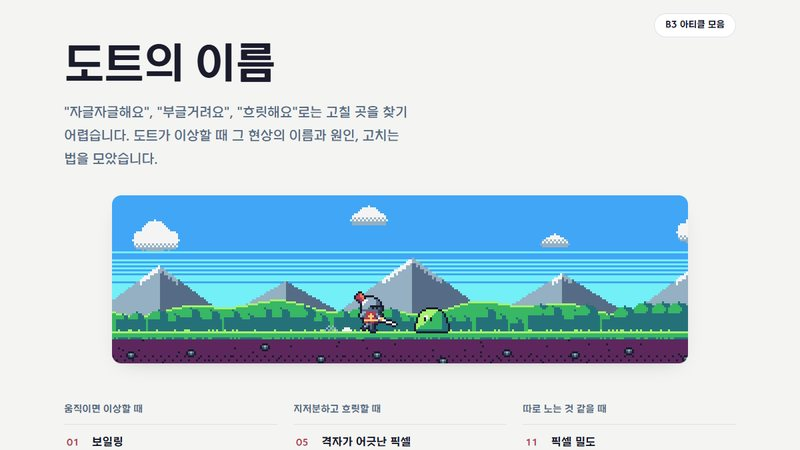
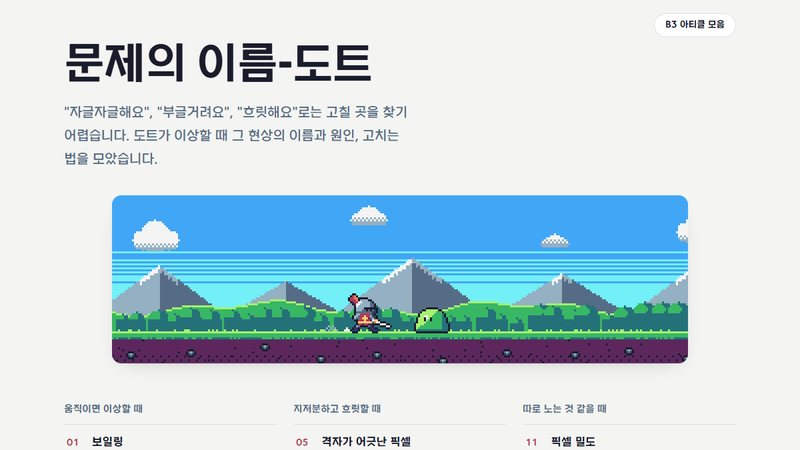
도트 칼럼 제목을 문제의 이름-도트로

Changed region(s): [[0.0625, 0.0933, 0.3438, 0.1867], [0.3438, 0.0933, 0.4688, 0.1867], [0.4375, 0.6533, 0.5, 0.7467]]

diff --git a/dot/index.html b/dot/index.html
@@ -1,6 +1,6 @@
 <!doctype html>
 <html lang="ko"><head><meta charset="utf-8"><meta name="viewport" content="width=device-width,initial-scale=1">
-<title>도트의 이름</title>
+<title>문제의 이름-도트</title>
 <meta name="description" content="자글자글, 부글부글, 흐릿함. 도트가 이상할 때 그 현상의 이름과 원인, 고치는 법을 같은 기사와 슬라임으로 비교합니다.">
 <link rel="preload" href="../fonts/HSHyosung-Bold.woff2" as="font" type="font/woff2" crossorigin>
 <link rel="preload" href="../fonts/HSHyosung-Medium.woff2" as="font" type="font/woff2" crossorigin>
@@ -131,7 +131,7 @@ footer p{margin:0}
 <a class="hub-link" href="../">B3 아티클 모음</a>
 
 <header class="top">
- <h1>도트의 이름</h1>
+ <h1>문제의 이름-도트</h1>
  <p class="lede">"자글자글해요", "부글거려요", "흐릿해요"로는 고칠 곳을 찾기 어렵습니다. 도트가 이상할 때 그 현상의 이름과 원인, 고치는 법을 모았습니다.</p>
  <div class="frame hero-frame"><canvas class="hero-cv" data-demo="hero" role="img" aria-label="기사가 달려와 슬라임을 베고 지나가는 장면"></canvas></div>
 </header>

diff --git a/index.html b/index.html
@@ -53,8 +53,8 @@ footer p{margin:0}
 </header>
 <ol class="shelf">
  <li class="card">
-  <img src="img/dot.jpg" alt="도트의 이름 첫 화면" width="800" height="450">
-  <div class="body"><span class="no">04</span><h2><a class="main" href="dot/">도트의 이름</a></h2>
+  <img src="img/dot.jpg" alt="문제의 이름-도트 첫 화면" width="800" height="450">
+  <div class="body"><span class="no">04</span><h2><a class="main" href="dot/">문제의 이름-도트</a></h2>
    <p>자글자글, 부글부글, 흐릿함. 도트가 이상할 때 그 현상의 이름과 원인, 고치는 법을 확대한 칸으로 보여 줍니다.</p><span class="meta">15개 항목</span></div>
  </li>
  <li class="card">

diff --git a/README.md b/README.md
@@ -4,7 +4,7 @@
 
 - 모음: https://tuiella.github.io/b3/
 - 손맛의 이름: https://tuiella.github.io/b3/sonmat/
-- 도트의 이름: https://tuiella.github.io/b3/dot/
+- 문제의 이름-도트: https://tuiella.github.io/b3/dot/
 
 모든 시연은 각 페이지 안의 코드로 그립니다. 색은 GrafxKid의 Sweetie 16 팔레트입니다.
 본 콘텐츠에는 (주)HS효성의 HS HYOSUNG 서체가 사용되었습니다.
